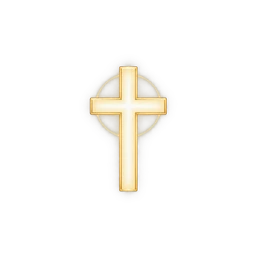
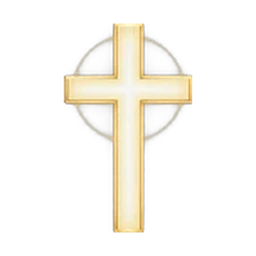
fix(people): bigger cross for Jesus node; profile image only on earned persons

Changed region(s): [[0.25, 0.0625, 0.75, 0.9375]]

diff --git a/src/features/cards/PeopleGraph.tsx b/src/features/cards/PeopleGraph.tsx
@@ -79,19 +79,20 @@ export function PeopleGraph() {
               onClick={() => setSel(p.id)}
               style={{ cursor: 'pointer' }}
             >
-              <circle r={jesus ? 34 : 20} fill={on ? (jesus ? '#1a1a2e' : '#1c2236') : '#141826'} stroke={on ? 'var(--gold)' : '#2a3044'} strokeWidth={sel === p.id ? 3 : 1.5} />
-              {/* 예수님은 십자가, 나머지는 실루엣 프로필. 미획득 인물은 어둡게 */}
-              <image
-                href={jesus ? '/assets/people/jesus.webp' : '/assets/people/person.webp'}
-                x={jesus ? -30 : -17}
-                y={jesus ? -30 : -17}
-                width={jesus ? 60 : 34}
-                height={jesus ? 60 : 34}
-                clipPath="url(#avatar-clip)"
-                opacity={on ? 1 : 0.3}
-                style={{ pointerEvents: 'none' }}
-              />
-              <text y={jesus ? 52 : 36} textAnchor="middle" fontSize={jesus ? 16 : 12} fill={on ? 'var(--fg)' : '#4a4f62'}>
+              <circle r={jesus ? 40 : 20} fill={on ? (jesus ? '#1a1a2e' : '#1c2236') : '#141826'} stroke={on ? 'var(--gold)' : '#2a3044'} strokeWidth={sel === p.id ? 3 : 1.5} />
+              {/* 예수님은 십자가, 인장을 얻은 인물만 실루엣 프로필. 미획득 인물은 빈 원 */}
+              {on && (
+                <image
+                  href={jesus ? '/assets/people/jesus.webp' : '/assets/people/person.webp'}
+                  x={jesus ? -36 : -17}
+                  y={jesus ? -36 : -17}
+                  width={jesus ? 72 : 34}
+                  height={jesus ? 72 : 34}
+                  clipPath="url(#avatar-clip)"
+                  style={{ pointerEvents: 'none' }}
+                />
+              )}
+              <text y={jesus ? 58 : 36} textAnchor="middle" fontSize={jesus ? 16 : 12} fill={on ? 'var(--fg)' : '#4a4f62'}>
                 {on ? p.name : '?'}
               </text>
             </g>
